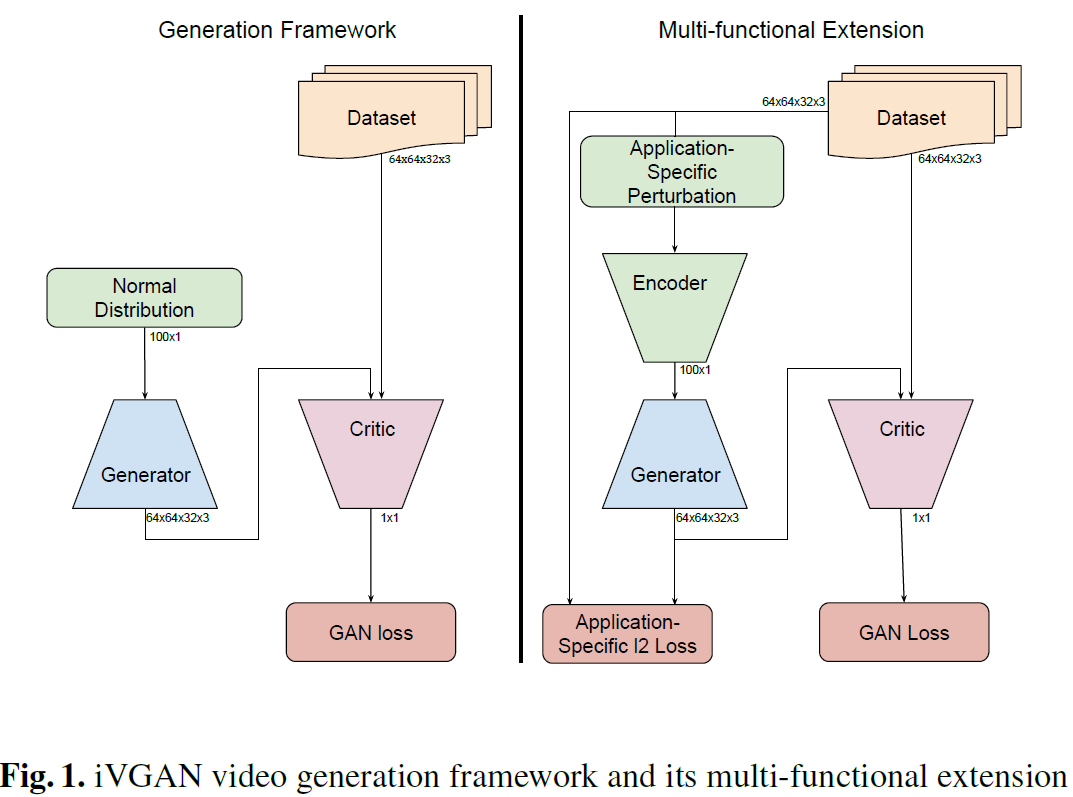
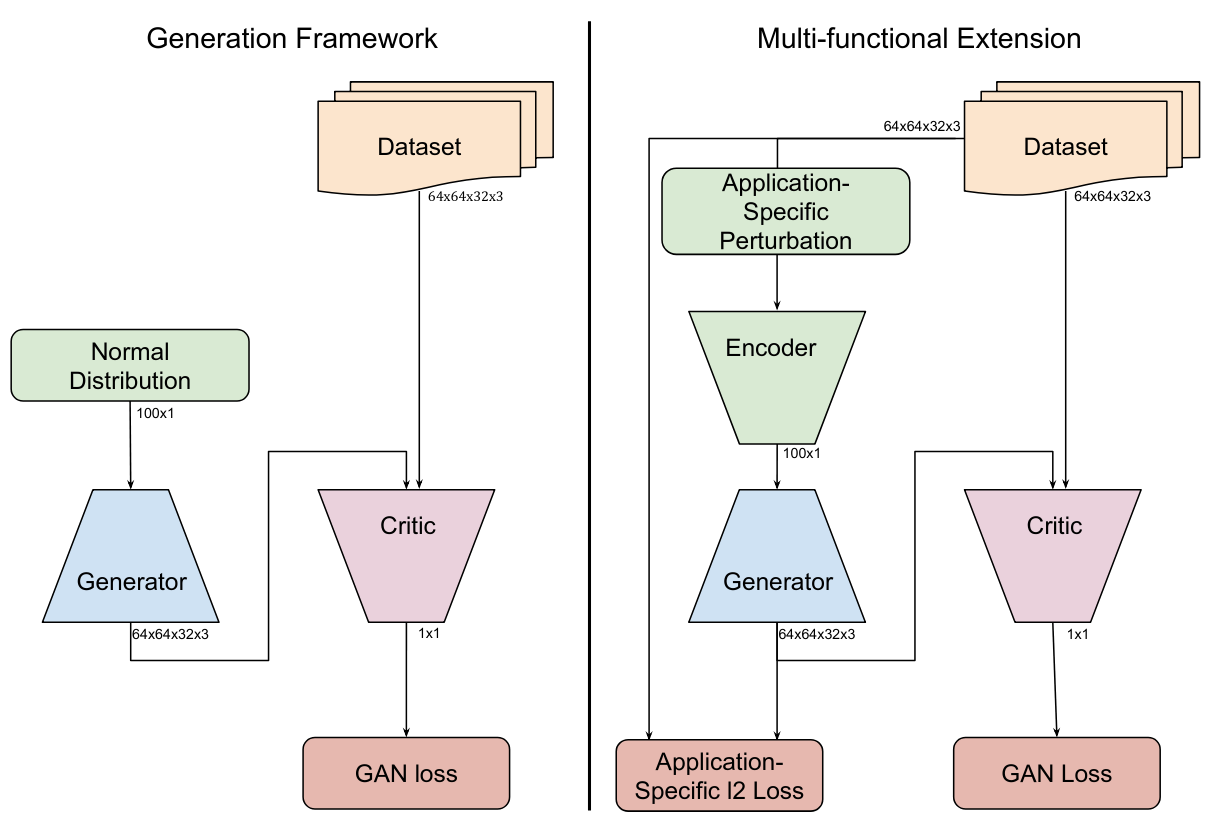
refined ivgan

diff --git a/summaries/2017/2017-improving-video-generation-for-multi-functional-applications.md b/summaries/2017/2017-improving-video-generation-for-multi-functional-applications.md
@@ -19,6 +19,8 @@
 
 ### APPLICATIONS SUMMARY
 
+- Unconditional video generation
+
 - Video Colorization: Works on image and video colorization can be divided into
 two categories: interactive colorization that requires some kind of user input [20,21,22,23,24,25] and automatic methods [26,27,28,29,30,31]. Our approach belongs to the latter category.
 
@@ -29,6 +31,8 @@ two categories: interactive colorization that requires some kind of user input [
 ### ARCHITECTURE SUMMARY
 
 ![architecture.png](images/2017-improving-video-generation-for-multi-functional-applications/architecture.png "Architecture")
+
+Fig. 1. iVGAN video generation framework and its multi-functional extension
 
 Output videos are of 32 frames and resolution 64 x 64 (color images).
 
@@ -53,11 +57,11 @@ The critic consists of five convolutional layers and is followed by an additiona
 
 ### AUTHORS
 
-- Bernhard Kratzwald [fkratzwab@ethz.ch](mailto:fkratzwab@ethz.ch)
-- Zhiwu Huang [fzhiwu.huang@ethz.ch](mailto:fzhiwu.huang@vision.ee.ethz.ch)
+- Bernhard Kratzwald [kratzwab@ethz.ch](mailto:kratzwab@ethz.ch)
+- Zhiwu Huang [zhiwu.huang@ethz.ch](mailto:zhiwu.huang@vision.ee.ethz.ch)
 - Danda Pani Paudel [paudel@ethz.ch](mailto:paudel@vision.ee.ethz.ch)
 - Acharya Dinesh [acharyadg@ethz.ch](mailto:acharyadg@ethz.ch)
-- Luc Van Gool [vangoolg@ethz.ch](mailto:vangoolg@vision.ee.ethz.ch)
+- Luc Van Gool [vangool@ethz.ch](mailto:vangool@vision.ee.ethz.ch)
 
 ### COMPARED TO
 
@@ -95,13 +99,17 @@ than the L2-loss. For the colorization quality we asked workers on **Amazon Mech
 
 On golf dataset from VGAN paper (stabilized/static background).
 
-![qualitative-stabilized-comparison.png](images/2017-improving-video-generation-for-multi-functional-applications/qualitative-stabilized-comparison.png "Qualitative comparison on Airplanes dataset")
+![qualitative-1.png](images/2017-improving-video-generation-for-multi-functional-applications/qualitative-1.png "Qualitative comparison on Airplanes dataset")
+
+Fig. 2.Video generation results on stabilized golf clips.Left: Videos generated by the two-streamVGAN model.Middle: Videos generated by the TGAN model.Right: Videos generated by ourone-stream iVGAN model
 
 The foreground suffers from the same flaws as the VGAN and TGAN model: it is blurrier than the background, with people and other foreground objects turning into blobs. The network correctly learns which objects should move, and generates plausible motions. Some samples are close to reality, a fraction of samples collapse during training. Overall, the network learns correct semantics and produces scenes with a sharp and realistic looking background but blurry and only fairly realistic foreground-motion.
 
 On Airplanes dataset (not stabilized/non static background).
 
-![qualitative-airplanes-comparison.png](images/2017-improving-video-generation-for-multi-functional-applications/qualitative-airplanes-comparison.png "Qualitative comparison on Airplanes dataset")
+![qualitative-2.png](images/2017-improving-video-generation-for-multi-functional-applications/qualitative-2.png "Qualitative comparison on Airplanes dataset")
+
+Fig. 3.Video  generation  results  on  unstabilized  airplane  videos.  Comparing  videos  generatedusing the one and two stream VGAN as well as the TGAN model, against our iVGAN framework
 
 VGAN both one stream and two stream versions collapse. TGAN does not collapse but fails to produce videos with moving backgrounds or camera motions. Although the quality of our samples is lower compared to the stabilized golf videos, our generator did in no single experiment collapse. The iVGAN model – unlike any other generative model – produces both: videos with static background, as well as videos with moving background
 or camera motion. A fraction of the generated videos collapsed to meaningless colored noise, nonetheless. Nevertheless, it is clear that the network does learn important semantics since a significant number of videos shows blurry but realistic scenes, objects, and motions.
@@ -144,6 +152,8 @@ Future frames are blurrier, compared to the inpainting and colorization results,
 ### QUANTITATIVE EVALUATION SUMMARY
 
 Unsupervised video generation:
+
+Table 1.Quantitative Evaluation on Amazon Mechanical Turk: We show workers two pairs of videos and ask them which looks more realistic. We show the percentage of times workers preferour model against real videos, VGAN and TGAN samples on two datastes.
 
 | ”Which video is more realistic?”   | Percentage of Trials |
 |------------------------------------|---------------------:|
